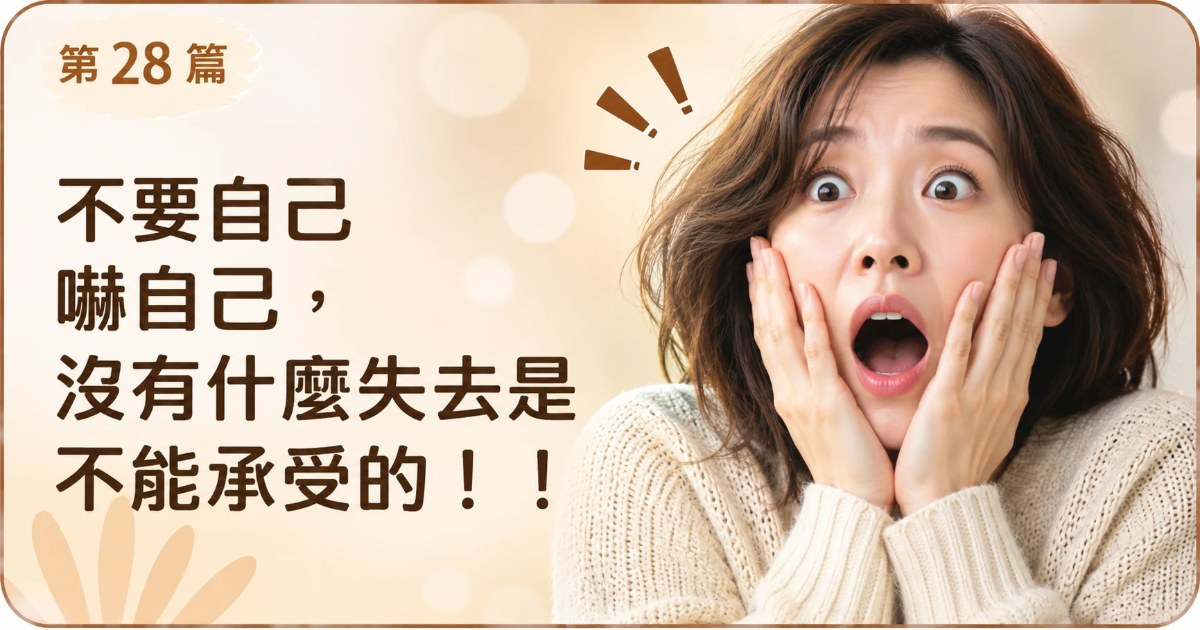
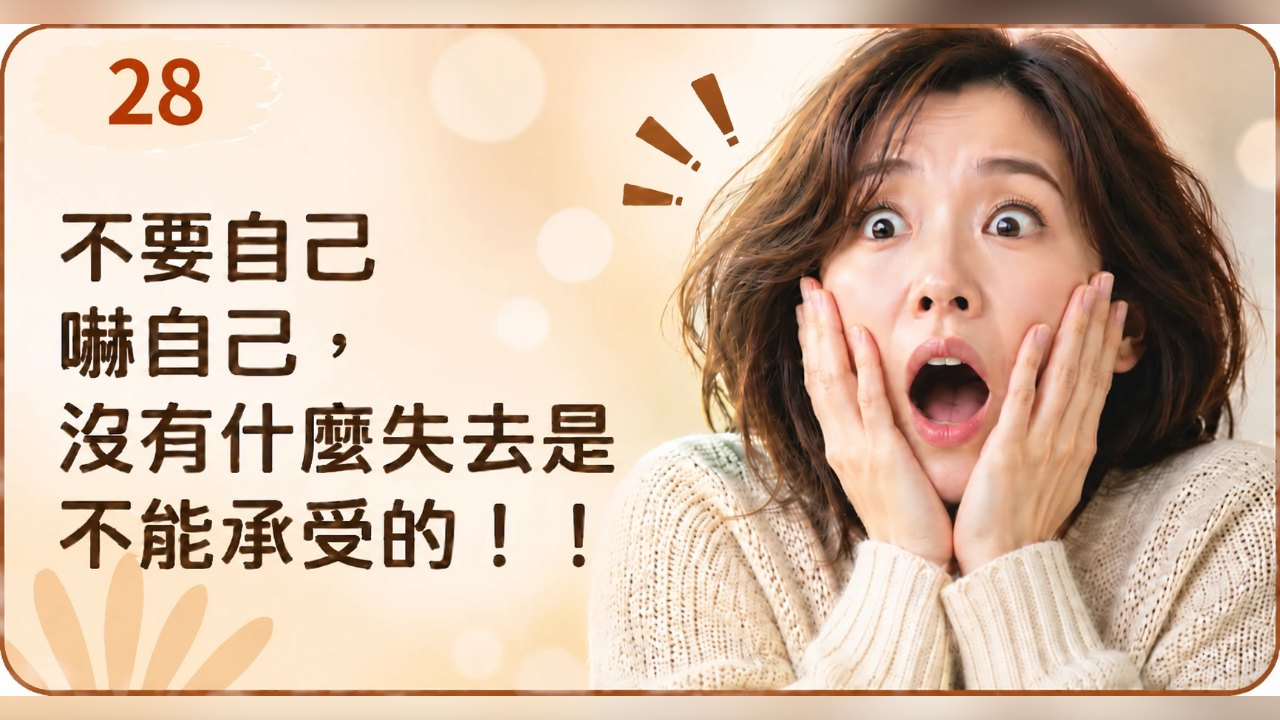
專欄第 1～39 篇全部換上雪媚製作的新封面圖（列表與文章頁）；第 4 篇圖上標題「下」改為「上」

diff --git a/columns.html b/columns.html
@@ -376,7 +376,7 @@
 <div class="xl-disclaimer" style="max-width:900px;margin:30px auto 20px;padding:14px 18px;font-size:13.5px;line-height:1.75;color:#777;text-align:center;border-top:1px solid #e5e5e5;font-family:'PingFang TC','Microsoft JhengHei',sans-serif;"><div style="margin-bottom:8px;color:#555;font-size:14.5px;"><b>聯絡我們</b>｜心路新路有限公司（統一編號 61981803，負責人 邱雪媚）｜Email：<a href="mailto:xinlumay@gmail.com" style="color:#2C5E3B;">xinlumay@gmail.com</a>｜官方 LINE：<a href="https://line.me/R/ti/p/@431trrjk" style="color:#2C5E3B;">@431trrjk</a>｜<a href="refund.html" style="color:#2C5E3B;">退費說明</a></div>本公司提供個人成長諮詢、生命成長陪伴與教育課程，非心理諮商或心理治療，亦不進行心理疾病之診斷。如有身心疾病或危機狀況，請尋求醫療機構或合格心理師協助。</div>
     <script>
         // 列表圖卡：每張卡的底圖（含文章名稱與號碼）放在 images/columns/card-編號.jpg；已換成新圖的篇數放在 new-編號.jpg
-        var NEW_COVERS = [28, 29, 30, 31, 32, 33, 34, 35, 36, 37, 38, 39];
+        var NEW_COVERS = [1, 2, 3, 4, 5, 6, 7, 8, 9, 10, 11, 12, 13, 14, 15, 16, 17, 18, 19, 20, 21, 22, 23, 24, 25, 26, 27, 28, 29, 30, 31, 32, 33, 34, 35, 36, 37, 38, 39];
         document.querySelectorAll('.article-grid-container .article-card').forEach(function (card) {
             var m = /^col-card-(\d+)$/.exec(card.id), key = card.dataset.cover || (m ? String(m[1]) : null);
             var media = card.querySelector('.article-card-media');
